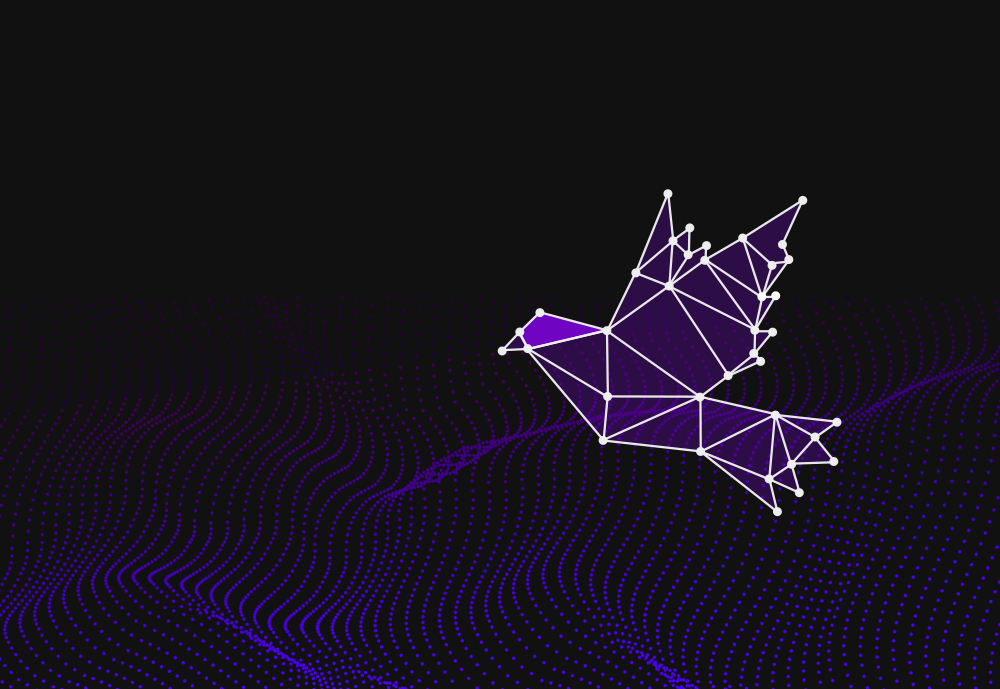
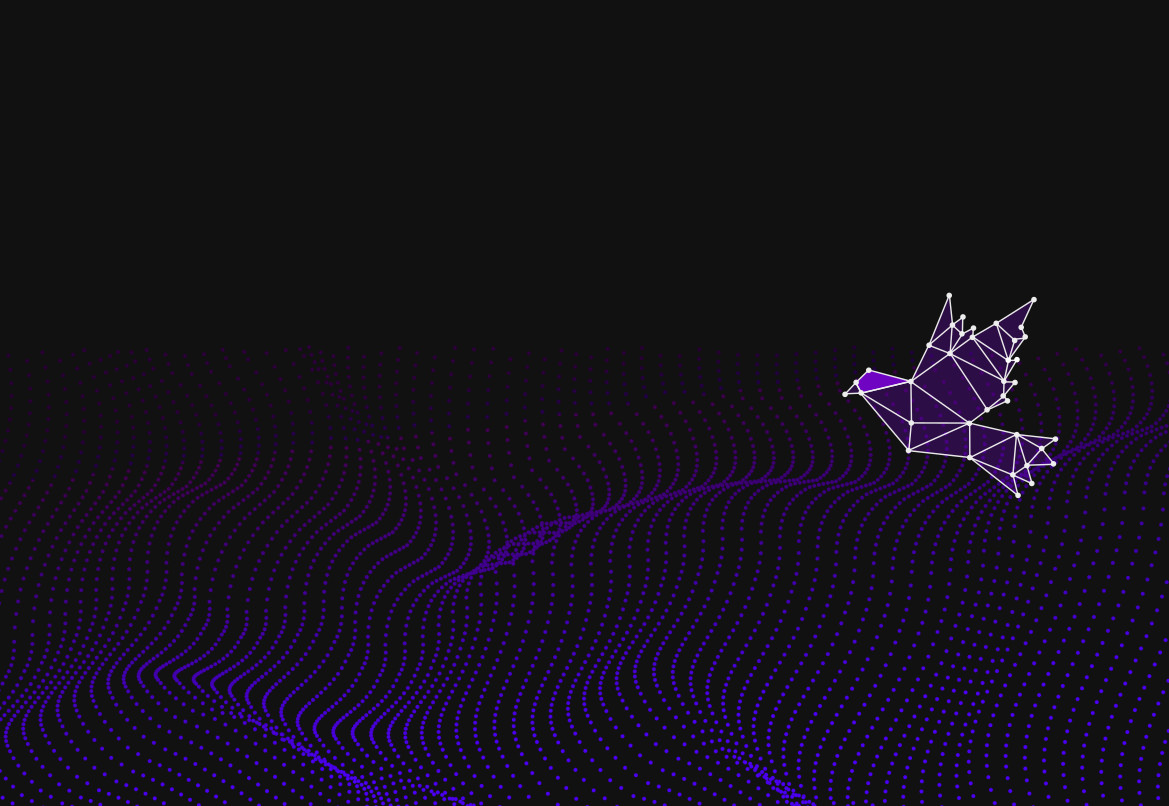
update background pic

diff --git a/index.html b/index.html
@@ -109,7 +109,7 @@
    </header>
 
    
-   <section id="home" data-parallax="scroll" data-image-src="img/page/hero-bg2.jpg" data-natural-width=3000 data-natural-height=2000>
+   <section id="home" data-parallax="scroll" data-image-src="img/page/hero-bg2.jpg" data-natural-width=1000 data-natural-height=689>
 
         <div class="overlay"></div>
         <div class="home-content">        
